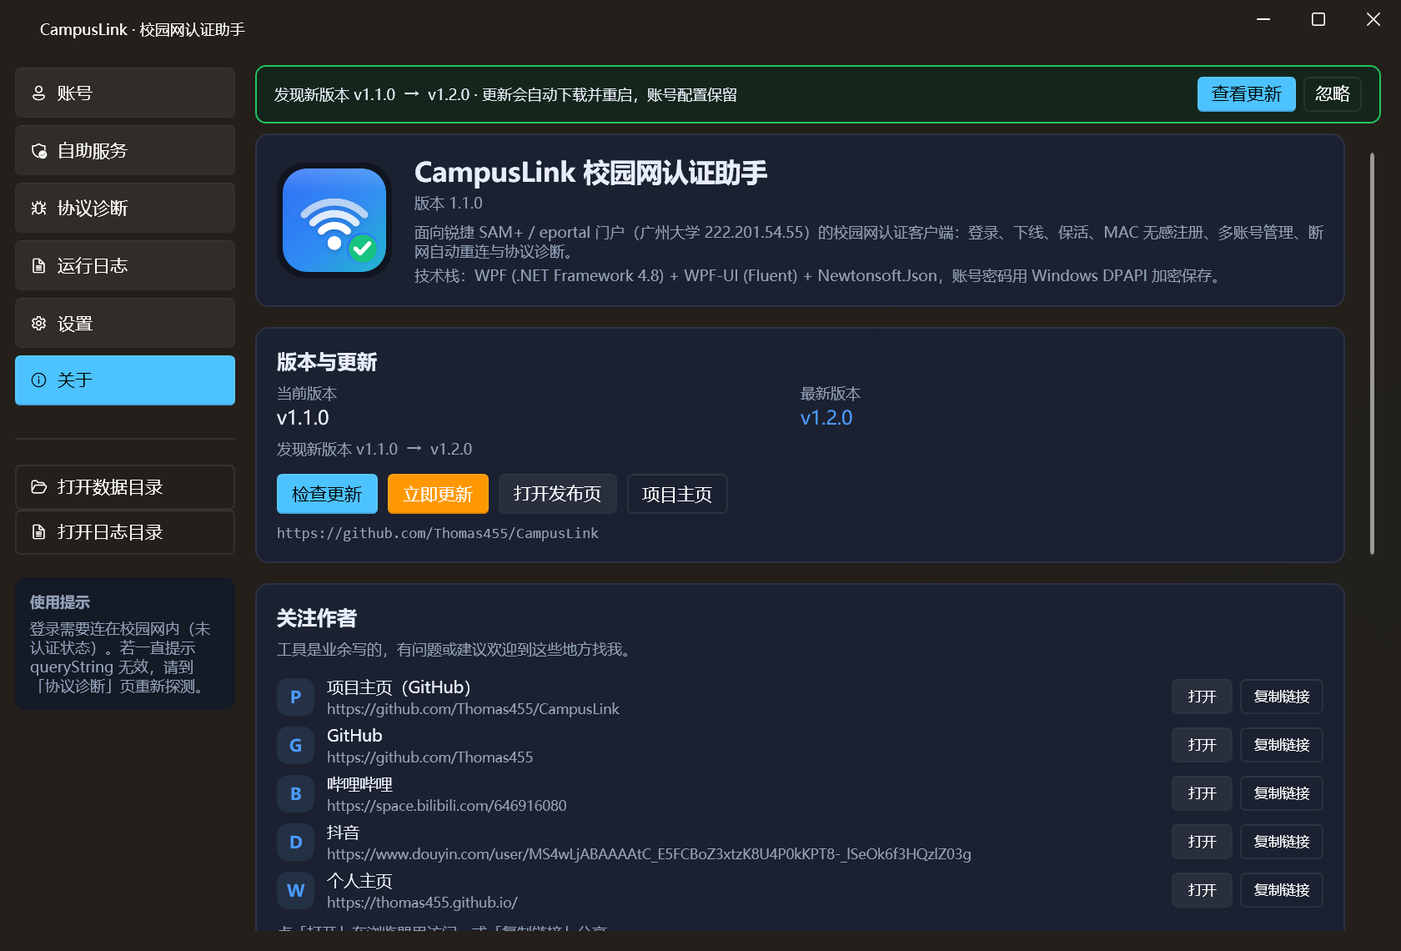
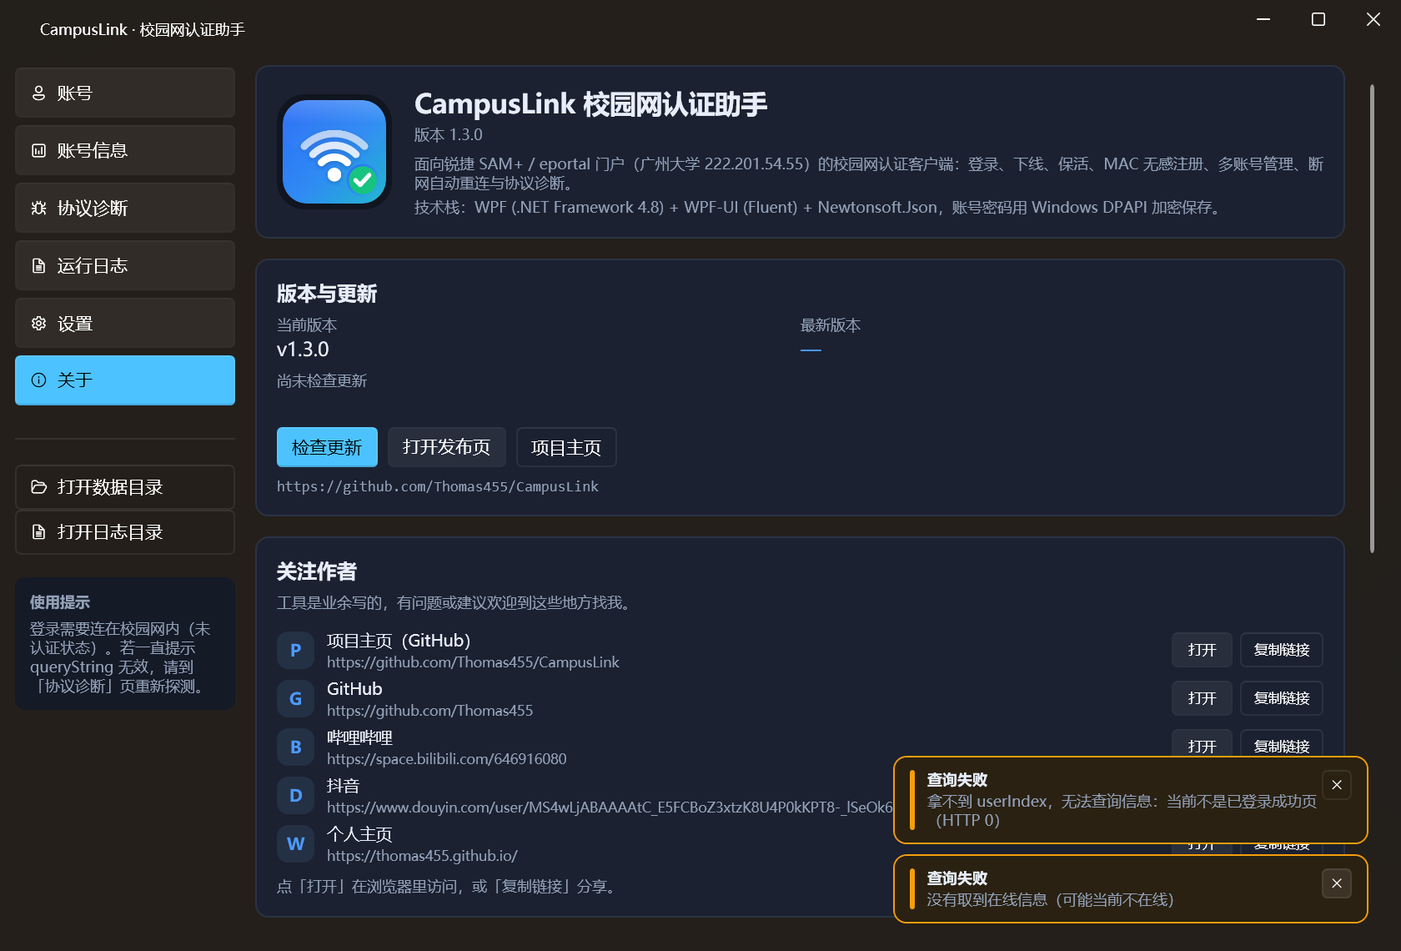
docs/test: 更新截图与说明，测试改用假学号并补充脱敏/预设用例

diff --git a/tests/CoreTests/Program.cs b/tests/CoreTests/Program.cs
@@ -163,8 +163,10 @@ namespace CoreTests
             TestOtherEndpoints(log);
             TestProbeFailure(log);
 
-            Console.WriteLine("== 自助服务（mock） ==");
-            TestSelfService(log);
+            Console.WriteLine("== 账号信息 / 学校预设 / 日志脱敏 ==");
+            TestAccountInfo(log);
+            TestPresets(log);
+            TestLogMasking();
 
             Console.WriteLine("== 账号持久化 / 会话语义 ==");
             TestPersistence(log);
@@ -269,7 +271,7 @@ namespace CoreTests
                     Password = "随便乱输的密码",
                     PortalHost = "127.0.0.1:" + portal.Port
                 };
-                var item = new AccountItemViewModel(profile, log, () => settings);
+                var item = new AccountItemViewModel(profile, log, () => settings, new ToastService());
                 var result = item.LoginAsync(false).GetAwaiter().GetResult();
 
                 Check("探测到已在线时不算登录成功（不校验账号密码）", () =>
@@ -306,14 +308,15 @@ namespace CoreTests
                     Password = "x",
                     PortalHost = "127.0.0.1:" + portal.Port
                 };
-                var item = new AccountItemViewModel(profile, log, () => settings);
+                var item = new AccountItemViewModel(profile, log, () => settings, new ToastService());
                 item.LoginAsync(false).GetAwaiter().GetResult();
 
                 Check("在线账号不是本账号时给出警告", () =>
                 {
                     Equal("2023000000", item.Session.OnlineUserId, "在线账号");
                     Assert(item.Session.OnlineAccountMatches == false, "应判定为不一致");
-                    Assert(item.Session.LastMessage.Contains("不是本账号"), item.Session.LastMessage);
+                    Assert(item.Session.LastMessage.Contains("当前在线的是账号"), item.Session.LastMessage);
+                    Assert(item.Session.LastMessage.Contains("***000"), "日志/提示里应只出现后 3 位：" + item.Session.LastMessage);
                 });
             }
         }
@@ -337,7 +340,7 @@ namespace CoreTests
                     Password = "pwd",
                     PortalHost = "127.0.0.1:" + portal.Port
                 };
-                var item = new AccountItemViewModel(profile, log, () => settings);
+                var item = new AccountItemViewModel(profile, log, () => settings, new ToastService());
                 var result = item.LoginAsync(false).GetAwaiter().GetResult();
 
                 Check("门户要求认证时走真实登录并标记 Verified", () =>
@@ -962,61 +965,158 @@ namespace CoreTests
             });
         }
 
-        private static void TestSelfService(LogService log)
+        private static void TestAccountInfo(LogService log)
         {
-            var captchaPng = new byte[] { 0x89, 0x50, 0x4E, 0x47, 1, 2, 3, 4 };
-            var mode = "success";
+            var sessionId = "4c2f5624ac0597f382192e487ba92bef";
+            var userIndex = HexOf(sessionId + "_10.1.2.3_2023123456");
+            const string ballsJson = "[{\"displayName\":\"套餐&余额\",\"type\":\"money\",\"value\":\"12.50\"},{\"displayName\":\"到期时间\",\"type\":\"periodtime\",\"value\":\"1819899800\"},{\"displayName\":\"在线设备\",\"type\":\"deviceNum\",\"value\":\"2\"}]";
+            var infoJson = "{\"result\":\"success\",\"userId\":\"2023123456\",\"userName\":\"测试用户\",\"userIp\":\"10.1.2.3\",\"userMac\":\"aabbccddeeff\"," +
+                           "\"userGroup\":\"4-26\",\"loginType\":\"3\",\"service\":\"\",\"portalIp\":\"222.201.54.55\"," +
+                           "\"announcement\":\"<a href='x'>公告内容</a>\",\"welcomeTip\":\"晚上好\",\"ballInfo\":" +
+                           JsonConvert.SerializeObject(ballsJson) + "}";
 
             using (var portal = new MockPortal(req =>
             {
-                if (req.Path.EndsWith("login_self.jsf", StringComparison.Ordinal))
-                {
-                    return MockResponse.Text(
-                        "<html><input type=\"hidden\" id=\"publicKey\" value=\"10001&amp;94dd2a8675fb779e6b9f7103698634cd400f27a154afa67af6166a43fc26417\" /></html>");
-                }
-                if (req.Path.EndsWith("verifycode.jsp", StringComparison.Ordinal))
-                {
-                    return new MockResponse { Body = captchaPng, Headers = { ["Content-Type"] = "image/png" } };
-                }
-                if (req.Path.EndsWith("login_judge.jsf", StringComparison.Ordinal))
-                {
-                    if (mode == "success") return MockResponse.Text("self.location='module/webcontent/web/index_self.jsf';");
-                    if (mode == "captcha") return MockResponse.Text("self.location='login_self.jsf?verifyError=true&name=x';");
-                    return MockResponse.Text("self.location='login_self.jsf?errorMsg=%D3%C3%BB%A7%B2%BB%B4%E6%D4%DA%BB%F2%C3%DC%C2%EB%B4%ED%CE%F3';");
-                }
+                if (req.Path == "/") return MockResponse.Redirect(Absolute(req, "/eportal/redirectortosuccess.jsp"));
+                if (req.Path == "/eportal/redirectortosuccess.jsp")
+                    return MockResponse.Redirect(Absolute(req, "/eportal/success.jsp?userIndex=" + userIndex));
+                if (req.Path == "/eportal/InterFace.do" && req.Query.Contains("method=getOnlineUserInfo"))
+                    return MockResponse.Json(infoJson);
                 return new MockResponse { Status = 404 };
             }))
             {
-                var client = new SelfServiceClient("http://127.0.0.1:" + portal.Port + "/selfservice", log);
-                var challenge = client.BeginLoginAsync("test").GetAwaiter().GetResult();
-                Check("自助服务取到公钥和验证码", () =>
+                var baseUrl = "http://127.0.0.1:" + portal.Port;
+                var settings = new AppSettings { ProbeUrls = baseUrl + "/" };
+                var profile = new AccountProfile { UserId = "2023123456", Password = "x", PortalHost = "127.0.0.1:" + portal.Port };
+                var toast = new ToastService();
+                var item = new AccountItemViewModel(profile, log, () => settings, toast);
+
+                var info = item.FetchFullInfoAsync().GetAwaiter().GetResult();
+
+                Check("getOnlineUserInfo 全量字段与套餐解析", () =>
                 {
-                    Assert(challenge.CaptchaImage != null && challenge.CaptchaImage.Length > 0, "验证码为空：" + challenge.Detail);
-                    Assert(challenge.PublicKey.Contains("10001"), "公钥异常：" + challenge.PublicKey);
-                    Assert(challenge.PublicKey.Contains("&"), "公钥应包含分隔符：" + challenge.PublicKey);
+                    Assert(info != null && info.Success, "查询失败：" + (info == null ? "null" : info.Message));
+                    Equal("测试用户", info.UserName, "姓名");
+                    Equal("10.1.2.3", info.UserIp, "IP");
+                    Equal("4-26", info.UserGroup, "用户组");
+                    Assert(info.Balls.Count == 3, "套餐条目数应为 3，实际 " + info.Balls.Count);
+                    Equal("套餐&余额", info.Balls[0].DisplayName, "套餐名");
+                    Equal("12.50", info.Balls[0].Value, "余额");
+                    Equal("在线设备", info.Balls[2].DisplayName, "在线设备");
                 });
 
-                var ok = client.LoginAsync("20231234", "pwd", challenge.PublicKey, "AB12", "test").GetAwaiter().GetResult();
-                Check("自助服务登录成功判定", () => Assert(ok.Success, "应判定成功：" + ok.Message));
+                var infoVm = new InfoViewModel(log, toast, () => null) { Account = item };
+                infoVm.LoadAsync(true).GetAwaiter().GetResult();
 
-                mode = "captcha";
-                var captcha = client.LoginAsync("20231234", "pwd", challenge.PublicKey, "AB12", "test").GetAwaiter().GetResult();
-                Check("自助服务验证码错误识别", () =>
+                Check("信息页结构化分组", () =>
                 {
-                    Assert(!captcha.Success, "应判失败");
-                    Assert(captcha.CaptchaWrong, "应识别为验证码错误：" + captcha.Message);
-                });
-
-                mode = "password";
-                var wrong = client.LoginAsync("20231234", "pwd", challenge.PublicKey, "AB12", "test").GetAwaiter().GetResult();
-                Check("自助服务密码错误识别", () =>
-                {
-                    Assert(!wrong.Success, "应判失败");
-                    Assert(wrong.PasswordWrong, "应识别为密码错误：" + wrong.Message);
+                    Assert(infoVm.Sections.Count >= 4, "分组数量不足：" + infoVm.Sections.Count);
+                    var ballSection = infoVm.Sections.FirstOrDefault(s => s.Title == "套餐与余额");
+                    Assert(ballSection != null, "缺少套餐分组");
+                    Assert(ballSection.Fields.Count == 3, "套餐分组字段数");
+                    Assert(infoVm.Sections.Any(s => s.Title == "网络"), "缺少网络分组");
+                    Assert(!string.IsNullOrWhiteSpace(infoVm.RawJson), "原始响应为空");
                 });
             }
         }
 
+        private static void TestPresets(LogService log)
+        {
+            var dir = Path.Combine(Path.GetTempPath(), "campuslink-preset-" + Guid.NewGuid().ToString("N"));
+            try
+            {
+                var service = new PresetService(log, dir);
+                var all = service.LoadAll();
+
+                Check("内置「广州大学·大学城校区」预设", () =>
+                {
+                    var builtin = all.FirstOrDefault(p => p.Id == PresetService.BuiltInId);
+                    Assert(builtin != null, "缺少内置预设");
+                    Equal("广州大学·大学城校区", builtin.Name, "学校名称");
+                    Equal("222.201.54.55", builtin.PortalHost, "门户地址");
+                    Equal("http://222.201.54.23:8080/selfservice", builtin.SelfServiceUrl, "自助服务地址");
+                    Equal("{uid}@Gzhu", builtin.DefaultPasswordTemplate, "默认密码模板");
+                    Assert(File.Exists(builtin.FilePath), "预设文件没有落盘");
+                });
+
+                var custom = new SchoolPreset
+                {
+                    Name = "测试大学",
+                    Author = "tester",
+                    PortalHost = "10.0.0.1",
+                    SelfServiceUrl = "http://10.0.0.1:8080/selfservice",
+                    DefaultPasswordTemplate = "{uid}"
+                };
+                service.Save(custom);
+
+                Check("保存预设生成独立文件", () =>
+                {
+                    Assert(File.Exists(custom.FilePath), "预设文件不存在");
+                    Assert(service.LoadAll().Any(p => p.Id == custom.Id && p.Name == "测试大学"), "重新加载找不到预设");
+                });
+
+                var exportPath = Path.Combine(Path.GetTempPath(), "campuslink-preset-export-" + Guid.NewGuid().ToString("N") + ".json");
+                service.Export(custom, exportPath);
+                var imported = service.Import(exportPath);
+
+                Check("导出/导入预设（自动分配新 Id）", () =>
+                {
+                    Assert(imported.Id != custom.Id, "导入应生成新 Id");
+                    Equal("测试大学", imported.Name, "学校名称");
+                    Equal("10.0.0.1", imported.PortalHost, "门户地址");
+                    Assert(service.LoadAll().Any(p => p.Id == imported.Id), "导入后应能加载");
+                });
+
+                service.Delete(custom);
+                Check("删除预设", () => Assert(!File.Exists(custom.FilePath), "预设文件仍存在"));
+                try { File.Delete(exportPath); } catch { }
+            }
+            finally
+            {
+                try { Directory.Delete(dir, true); } catch { }
+            }
+        }
+
+        private static void TestLogMasking()
+        {
+            Check("日志脱敏：无显示名时只保留学号后 3 位", () =>
+            {
+                var profile = new AccountProfile { UserId = "20230000108" };
+                Equal("***108", AccountProfile.MaskUserId("20230000108"), "掩码");
+                Equal("账号***108", profile.LogName, "日志名");
+            });
+
+            Check("日志脱敏：有显示名时用显示名", () =>
+            {
+                var profile = new AccountProfile { UserId = "20230000108", DisplayName = "宿舍主号" };
+                Equal("宿舍主号", profile.LogName, "日志名");
+            });
+
+            Check("历史日志清洗：旧日志里的完整学号被替换", () =>
+            {
+                var dir = Path.Combine(Path.GetTempPath(), "campuslink-log-" + Guid.NewGuid().ToString("N"));
+                Directory.CreateDirectory(dir);
+                var file = Path.Combine(dir, "20260101.log");
+                File.WriteAllText(file, "2026-01-01 10:00:00.000 [INF] {20230000108} 探测：已在线" + Environment.NewLine +
+                                        "2026-01-01 10:00:01.000 [DBG] POST | userId=20230000108&userIndex=4c2f5624ac0597f382192e487ba92bee", Encoding.UTF8);
+                var log2 = new LogService(true, dir);
+                log2.SanitizeHistory(new[] { "20230000108" });
+                var cleaned = File.ReadAllText(file);
+                Assert(!cleaned.Contains("20230000108"), "仍含完整学号：" + cleaned);
+                Assert(cleaned.Contains("{***108}"), "tag 未脱敏：" + cleaned);
+                Assert(!cleaned.Contains("ac0597f3"), "userIndex 未截断：" + cleaned);
+                try { Directory.Delete(dir, true); } catch { }
+            });
+
+            Check("日志脱敏：请求体里的 userId 只剩后 3 位", () =>
+            {
+                var text = LogService.Redact("POST http://x/eInterface.do | userId=2023123456&password=secret&userIndex=4c2f5624ac0597f382192e487ba92bee");
+                Assert(!text.Contains("2023123456"), "仍含完整学号：" + text);
+                Assert(text.Contains("***456"), "未保留后 3 位：" + text);
+                Assert(!text.Contains("secret"), "密码未脱敏：" + text);
+                Assert(!text.Contains("ac0597f3"), "userIndex 未截断：" + text);
+            });
+        }
         private static string Reverse(string text)
         {
             var chars = text.ToCharArray();

diff --git a/docs/交付说明.md b/docs/交付说明.md
@@ -8,7 +8,9 @@
 | `CampusLink/Resources/` | 图标矢量源 `app-icon.svg`、多尺寸 `app.ico`、`app-icon-256.png`、赞助码 `sponsor.jpg` |
 | `tests/CoreTests/` | 协议层自动化测试（自带 mock 门户服务器） |
 | `tools/build-icon.js` | SVG → 16~256 多尺寸 ICO 生成脚本（Node.js + sharp） |
-| `docs/screenshots/` | 六个页面截图 |
+| `tools/package.ps1` + `installer/` | 一键打包 zip + Inno Setup 安装程序 |
+| `.github/workflows/main.yml` | GitHub Actions：打 tag 自动构建并发布 Release |
+| `docs/screenshots/` | 页面截图（账号、账号信息、编辑、诊断、日志、设置、关于、更新） |
 | `CampusLink/README.md` | 使用文档：构建、上手、协议、排错 |
 
 ## 二、验证记录
@@ -21,7 +23,7 @@
 
 ### 2. 协议层自动化测试
 
-`tests/CoreTests` 用 TcpListener 起了一个 mock 门户，覆盖真实请求/响应格式，**46 项全部通过**：
+`tests/CoreTests` 用 TcpListener 起了一个 mock 门户，覆盖真实请求/响应格式，**65 项全部通过**：
 
 - 编码：`encodeURIComponent` 语义（保留 `-_.!~*'()`）、中文 UTF-8、百分号、双重编码
 - MAC 归一化（去分隔符 + 大写）
@@ -31,9 +33,9 @@
 - 探测：302 `index.jsp?...` 提取 queryString/MAC；`redirectortosuccess.jsp` 判在线；连接失败不抛异常
 - 登录：`passwordEncrypt=false` 明文、`true` 时提交定长 RSA 密文；请求体确认是双重编码；失败信息带 `queryString` 排错提示
 - 保活 / 无感注册（MAC 归一化）/ 解绑 / 下线 / 下线全部会话（单次编码）/ getOnlineUserInfo / getServices / pageInfo
-- 自助服务：公钥+验证码获取、登录成功、验证码错误、密码错误三种分支判定
+- 账号信息：getOnlineUserInfo 全量字段、`ballInfo` 二次解析（money/periodtime/deviceNum）、信息页分组\n- 学校预设：内置「广州大学·大学城校区」、保存独立文件、导出/导入（自动分配新 Id）、删除\n- 日志脱敏：无显示名时只出现 `***108`，有显示名时用显示名替代学号；历史日志启动时清洗
 
-运行结果：`通过 46 项，失败 0 项`（含账号持久化、在线语义、在线账号识别、网卡枚举）。
+运行结果：`通过 65 项，失败 0 项`（含账号持久化、在线语义、在线账号识别、网卡枚举、预设、脱敏、整包更新）。
 
 ### 3. 界面验证
 
@@ -41,7 +43,7 @@
 
 - 账号页：默认只显示卡片；点「添加账号」才弹表单；「编辑」「删除账号」可用；删除会弹二次确认
 - 协议诊断：账号存在时五个接口按钮均可点击（此前因命令未刷新 CanExecute 一直是灰的）
-- 自助服务：账号下拉框来自「账号」页，学号只读、密码取保存值
+- 账号信息：自动按 userIndex 取 getOnlineUserInfo，账号/网络/套餐与余额/门户通知/会话分组展示；刷新有绿色通知，失败为黄色通知
 - 打开数据目录/日志目录：UI Automation 触发后日志写入 `已打开目录：...`
 - 托盘：UIA 在任务栏溢出区找到 `CampusLink` 按钮（Windows 11 默认折叠）
 - 单实例：第二次启动不产生新进程，会唤醒已有窗口
@@ -116,20 +118,31 @@
 | 顺带修复 | 手动「检查更新」时 `IsChecking` 未复位就同步弹出窗口，导致「立即更新」一直禁用；已把事件移到状态复位之后 |
 | 说明 | 未采用单文件（Costura）方案：保持多文件分发，以 zip 整包更新，避免单文件方案在 WPF/资源加载上的兼容风险 |
 
-## 八、已知限制
+## 八、第七轮（v1.3.0）：CI、账号信息、学校预设、脱敏、通知
+
+| # | 需求 | 处理 & 验证 |
+| --- | --- | --- |
+| 1 | GitHub Actions 自动打包并发布 | `.github/workflows/main.yml`：push `v*` tag → msbuild 还原/构建 → 生成 `CampusLink-<ver>-win.zip` → 安装 Inno Setup 编译 Setup → 创建 Release 上传两个附件；`workflow_dispatch` 只构建；构建前按 tag 改写 AssemblyInfo 版本，保证关于页版本与 tag 一致。YAML 已用 PyYAML 解析校验，11 个 step |
+| 2 | 取消自助服务，改成查看信息 | 删除 `SelfServiceClient` / `SelfServiceViewModel` / `SelfServicePage`；新增「账号信息」页：自动从在线会话/成功页拿 userIndex → `getOnlineUserInfo` → 按账号/网络/套餐与余额/门户通知/会话分组展示，支持复制、原始 JSON、打开门户/自助服务。mock 门户实测：姓名/IP/用户组/`ballInfo` 三项（余额、到期时间、在线设备）全部正确展示 |
+| 3 | 学校预设 | 新增 `SchoolPreset` + `PresetService`，预设存放 `%APPDATA%\CampusLink\presets\<id>.json`；内置「广州大学·大学城校区」（门户 222.201.54.55、自助服务 222.201.54.23:8080、模板 `{uid}@Gzhu`），丢失自动恢复；设置页支持新建/保存/设为当前/删除/导入/导出/打开目录；新建账号自动带出当前预设门户 |
+| 4 | 日志不能出现完整账号 | `AccountProfile.LogName`：有显示名用显示名，否则 `***108`；`AccountItemViewModel.Tag` 统一用它；登录请求、在线账号识别、账号增删改、诊断标签全部改走脱敏；在线账号提示也只显示后 3 位 |
+| 5 | 提示不明显，改右下角分级通知 | 新增 `ToastService` + 主窗口右下角堆叠通知（绿成功/黄注意/红失败/蓝信息，自动消失、可手动关闭、带淡入）；登录、下线、探测、无感注册/解绑、保存账号/设置/预设、导入导出、检查更新、下载、复制信息、批量操作全部接入；卡片只保留持久状态文字 |
+| 验证 | 构建/测试 | Debug + Release 构建 0 错误；65 项测试全过；UI Automation 逐页截图确认账号信息页、设置预设卡片、右下角通知（绿/黄）位置与配色 |
+| 顺带修复 | 信息页线程问题 | 自动重连在后台线程触发信息刷新时，`ObservableCollection` 跨线程修改会抛异常；已把构建分组/清空集合统一切回 UI 线程 |
+## 九、已知限制
 
 1. **`passwordEncrypt` 真实取值未确认**：资料里未能拿到真实登录页隐藏字段。已实现「自动 / 强制明文 / 强制 RSA」三种模式与 `>`、`>>` 两种分隔符可切换，并提供诊断页核对。
 2. **服务列表**：广大现场 `getServices` 返回空数组，`service` 参数默认留空；如报「请选择服务」，可从诊断页拿到服务名后填进账号设置。
-3. **自助服务验证码**：离线没有可靠的 C# OCR 方案（资料里的 `ddddocr` 是 Python 库），因此保留人工输入；登录后的改密/余额页面是 JSF 动态页，未做接口化，走浏览器。
+3. **自助服务**：已从应用内移除（验证码需要人工识别、收益低）；需要改密/查详单时点「账号信息 → 自助服务」在浏览器里操作。
 4. **多账号 + 网卡**：同一块网卡下多个账号会互相顶掉；真实多账号聚合需要为每个账号绑定不同网卡。
 5. **托盘图标**依赖 WinForms `NotifyIcon`（.NET Framework 自带，不需要额外 NuGet）；Win11 默认折叠，需要用户手动打开常驻。
-6. **密码校验**：MAC 已注册无感时门户不会下发 `queryString`，登录接口走不到；想验密码只能用「自助服务 → 登录校验」（需验证码），或先解绑 MAC 让 AC 重新拦截。
+6. **密码校验**：MAC 已注册无感时门户不会下发 `queryString`，登录接口走不到，因此程序无法校验密码；要验证密码需先解绑 MAC 让 AC 重新拦截。
 7. **管理员权限**：清单要求管理员运行；单实例互斥只在同一会话内生效（管理员实例之间正常）。
 
-## 九、可继续做的方向
+## 十、可继续做的方向
 
 - 拿到真实 `passwordEncrypt` 后，把默认模式收敛为实测值，删掉手动开关（或保留高级选项）。
-- 自助服务验证码接 `ddddocr` 的本地 HTTP sidecar，或 Windows.Media.Ocr 做预识别 + 人工兜底。
-- 自助服务登录后继续逆向余额/在线记录页面，做只读信息展示。
+- 账号信息页增加历史在线记录/流量走势（需要门户提供对应接口）。
+- 预设市场：把社区投稿的学校预设汇总到一个仓库目录，应用内一键订阅。
 - 多账号定时任务（每账号独立计划）+ 结果通知。
-- 单元测试接入 CI（`msbuild` + `CoreTests.exe` 退出码即可）。
+- 单元测试接入 CI（`msbuild` + `CoreTests.exe` 退出码即可；目前 CI 只构建与发布）。

diff --git a/README.md b/README.md
@@ -5,10 +5,11 @@
 ```
 CampusLink/
 ├─ CampusLink/        应用源码（WPF, .NET Framework 4.8）+ 使用文档
-│  └─ README.md       ← 功能、构建、分发、协议说明、常见问题
-├─ tests/CoreTests/   协议层与更新逻辑自动化测试（自带 mock 服务）
-├─ tools/             开发辅助脚本（图标生成、打包：package.ps1）
-├─ installer/         Inno Setup 安装脚本（CampusLink.iss）
+│  └─ README.md       ← 功能、构建、分发、协议、预设、排错
+├─ tests/CoreTests/   协议层与更新/预设/脱敏自动化测试（自带 mock 服务）
+├─ tools/             图标生成、一键打包（package.ps1）
+├─ installer/         Inno Setup 安装脚本
+├─ .github/workflows/ GitHub Actions：打 tag 自动构建并发布 Release
 ├─ docs/              截图与交付说明
 │  ├─ screenshots/    界面截图
 │  └─ 交付说明.md      验证记录、已知限制、后续计划
@@ -28,6 +29,15 @@ msbuild CampusLink.csproj -t:Restore,Build -p:Configuration=Release
 ```powershell
 powershell -ExecutionPolicy Bypass -File tools\package.ps1
 # 产物：dist\CampusLink-Setup-<版本>.exe 和 dist\CampusLink-<版本>-win.zip
+```
+
+## 发布
+
+推一个 `v*` tag 即可触发 GitHub Actions（构建 → 打包 zip + Setup → 创建 Release）：
+
+```bash
+git tag v1.3.0
+git push origin v1.3.0
 ```
 
 ## 运行测试
